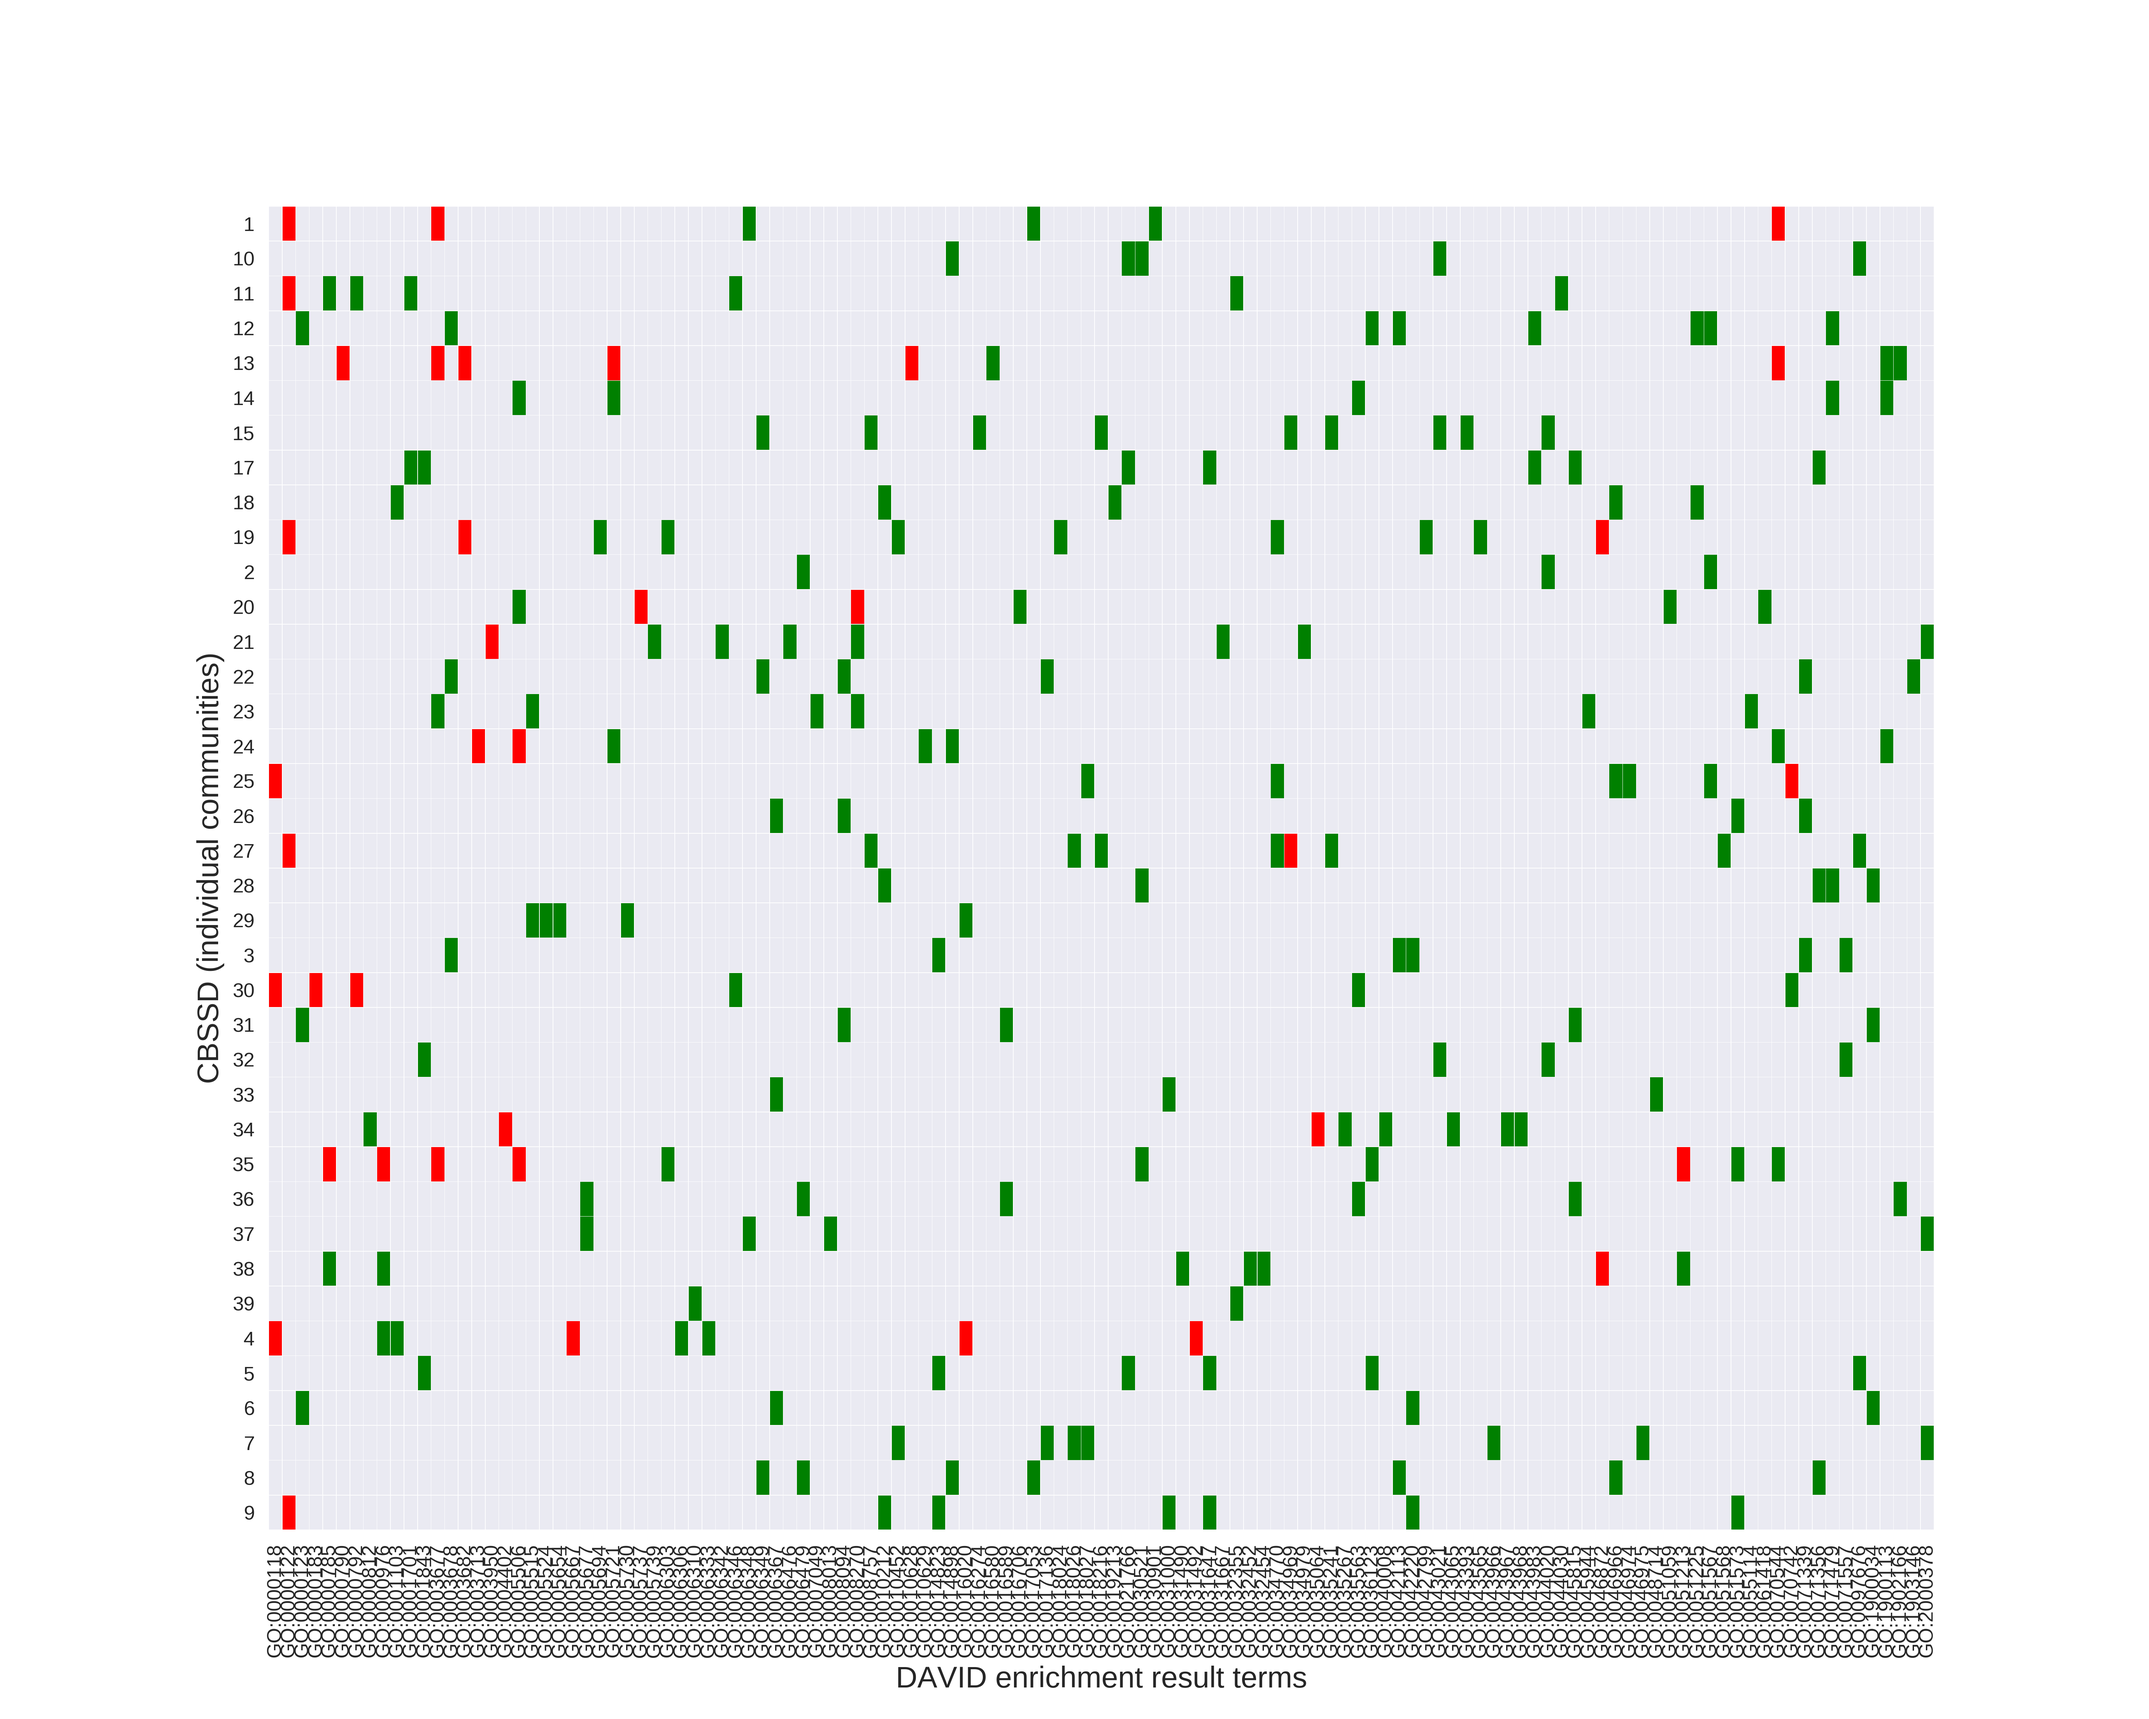
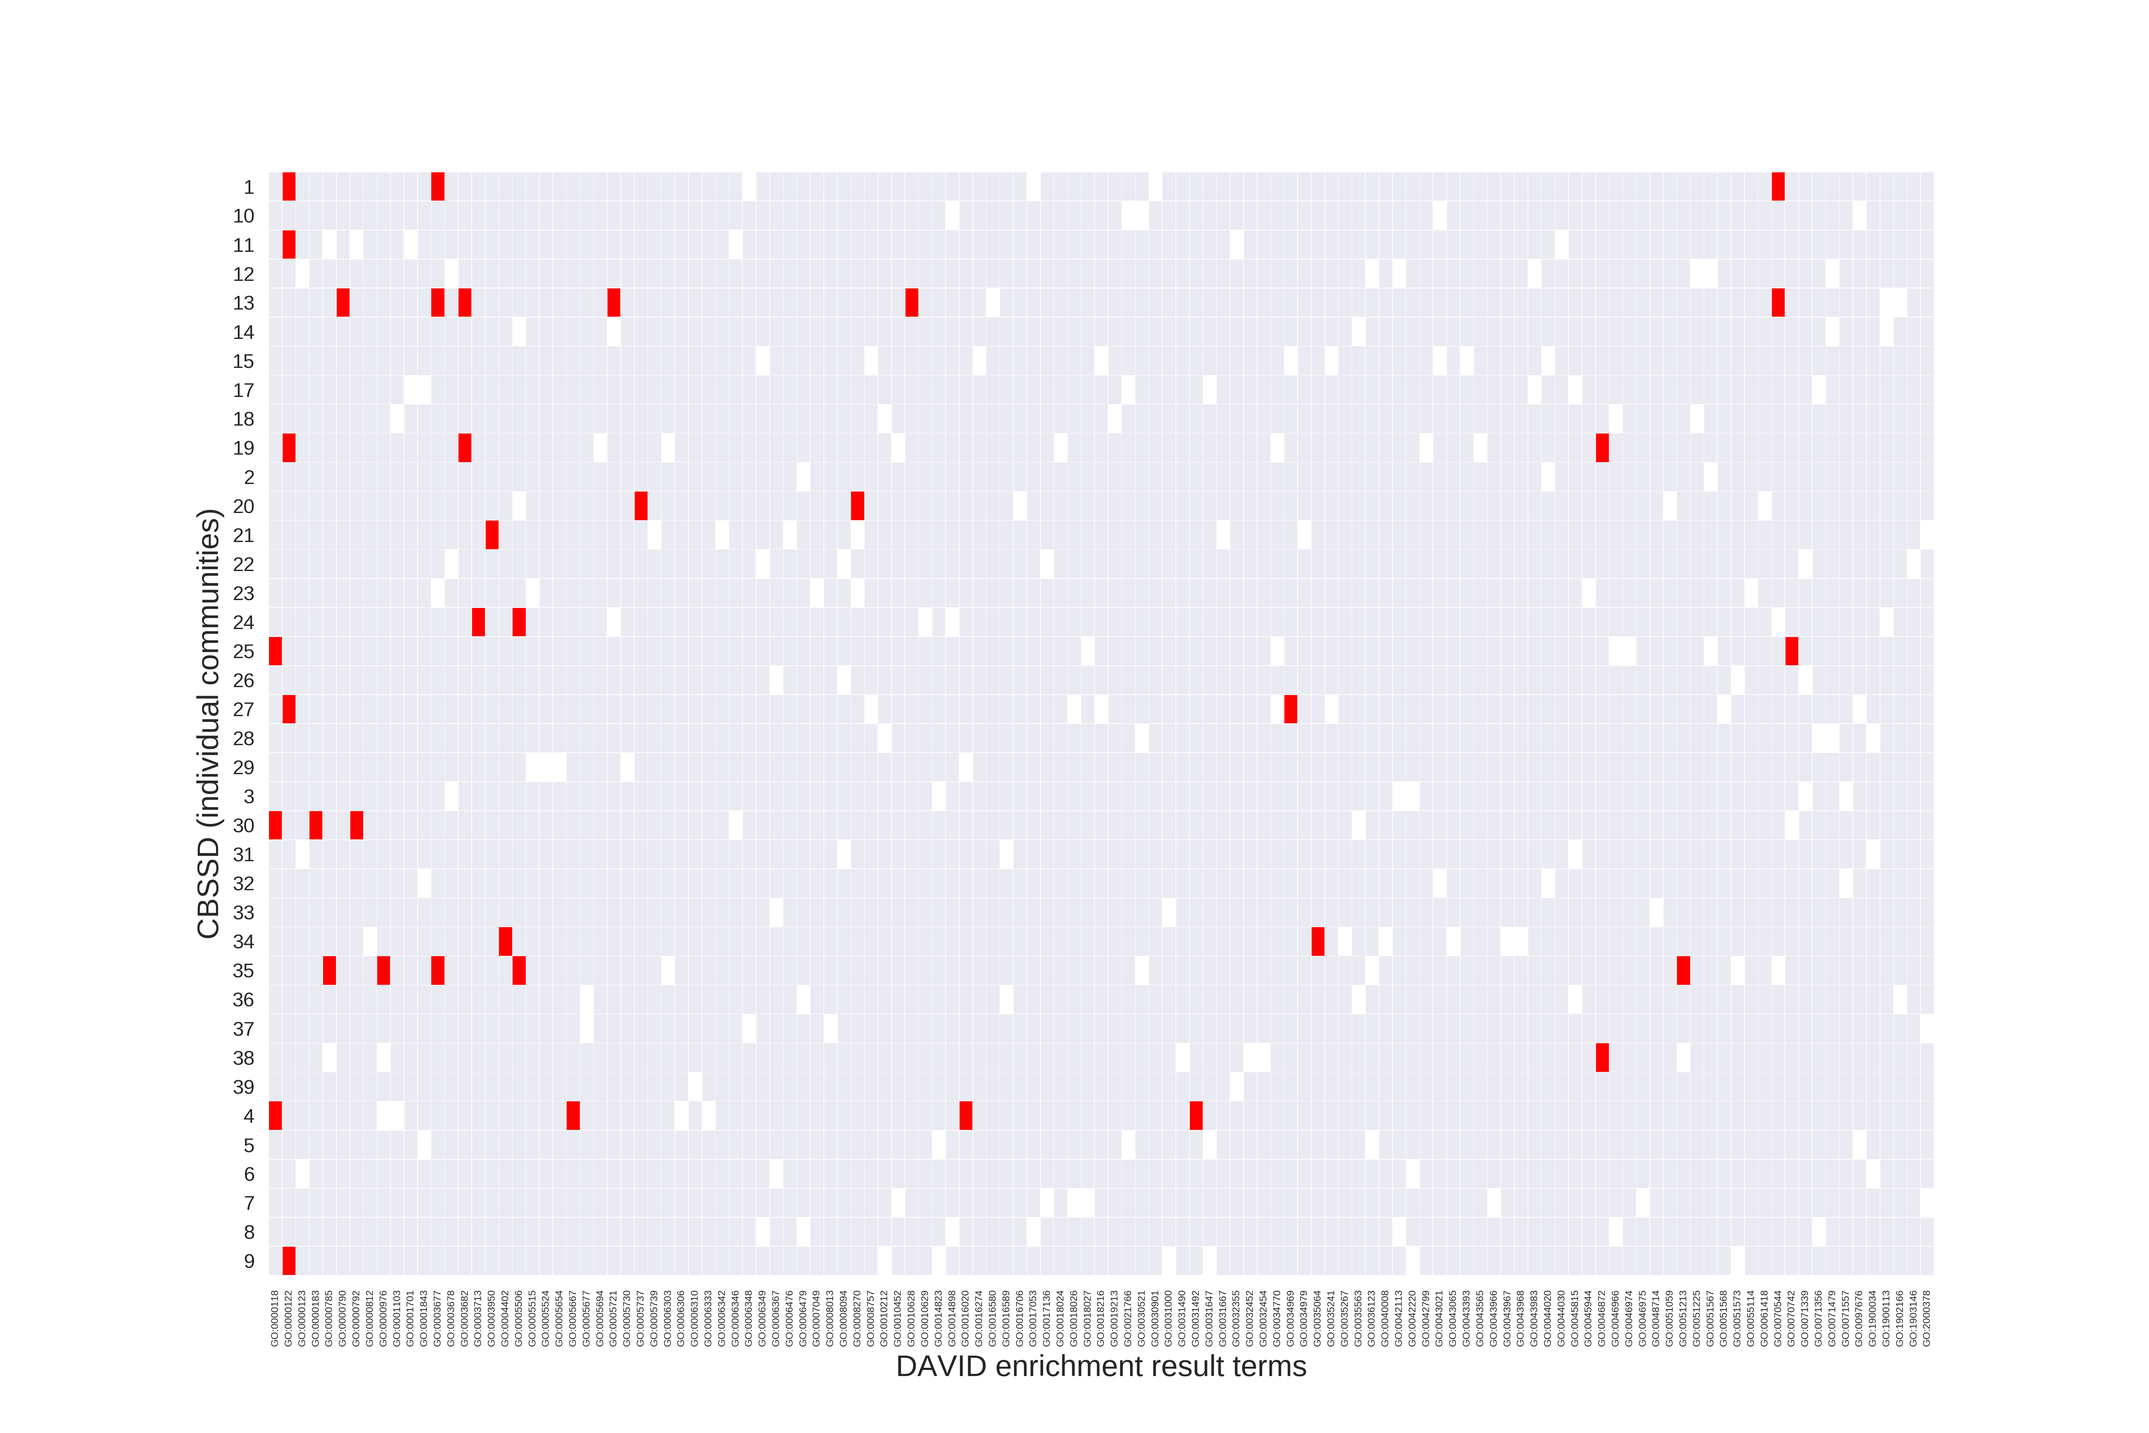
Seaborn fix

diff --git a/lib/compare.py b/lib/compare.py
@@ -1,5 +1,6 @@
 
 from collections import defaultdict
+import numpy as np
 import seaborn as sns
 import matplotlib.pyplot as plt
 from matplotlib.colors import ListedColormap
@@ -50,19 +51,22 @@ def compare_lists(file1,file2,out):
             dv = dict(v)
             l1,l2 = zip(*v)
             if gt in l1:
-                df = df.append(pd.DataFrame([[k, gt,int(dv[gt])]], columns=["SDM","Enrichment","Match"]),ignore_index=True)
+                df = df.append(pd.DataFrame([[str(k), str(gt),int(dv[gt])]], columns=["SDM","Enrichment","Match"]),ignore_index=True)
             else:
                 pass
 #                df = df.append(pd.DataFrame([[k, gt,int(0)]], columns=["SDM","Enrichment","Match"]),ignore_index=True)
     
-
     ##plot the dataset
     result = df.pivot(index='SDM', columns='Enrichment', values='Match')
-    ax = sns.heatmap(result, cbar=False,yticklabels=True,xticklabels=True,linewidths=.1,cmap=ListedColormap(['green', 'yellow', 'red']))
+    
+    result.fillna(value=np.nan, inplace=True)
+    ax = sns.heatmap(result, cbar=False,yticklabels=True,xticklabels=True,linewidths=.1,cmap=ListedColormap(['white', 'green', 'red']))
+    print("HM constructed..")
     ax.set_xlabel("DAVID enrichment result terms",fontsize=15)
     ax.set_ylabel("CBSSD (individual communities)",fontsize=15)
     plt.yticks(rotation=0)
-    plt.xticks(rotation=90)
+    plt.xticks(rotation=90,fontsize=5)
     fig = plt.gcf()
-    fig.set_size_inches(15, 12)
+    print("Drawing..")
+    fig.set_size_inches(15, 10)
     fig.savefig(out, dpi=400)
